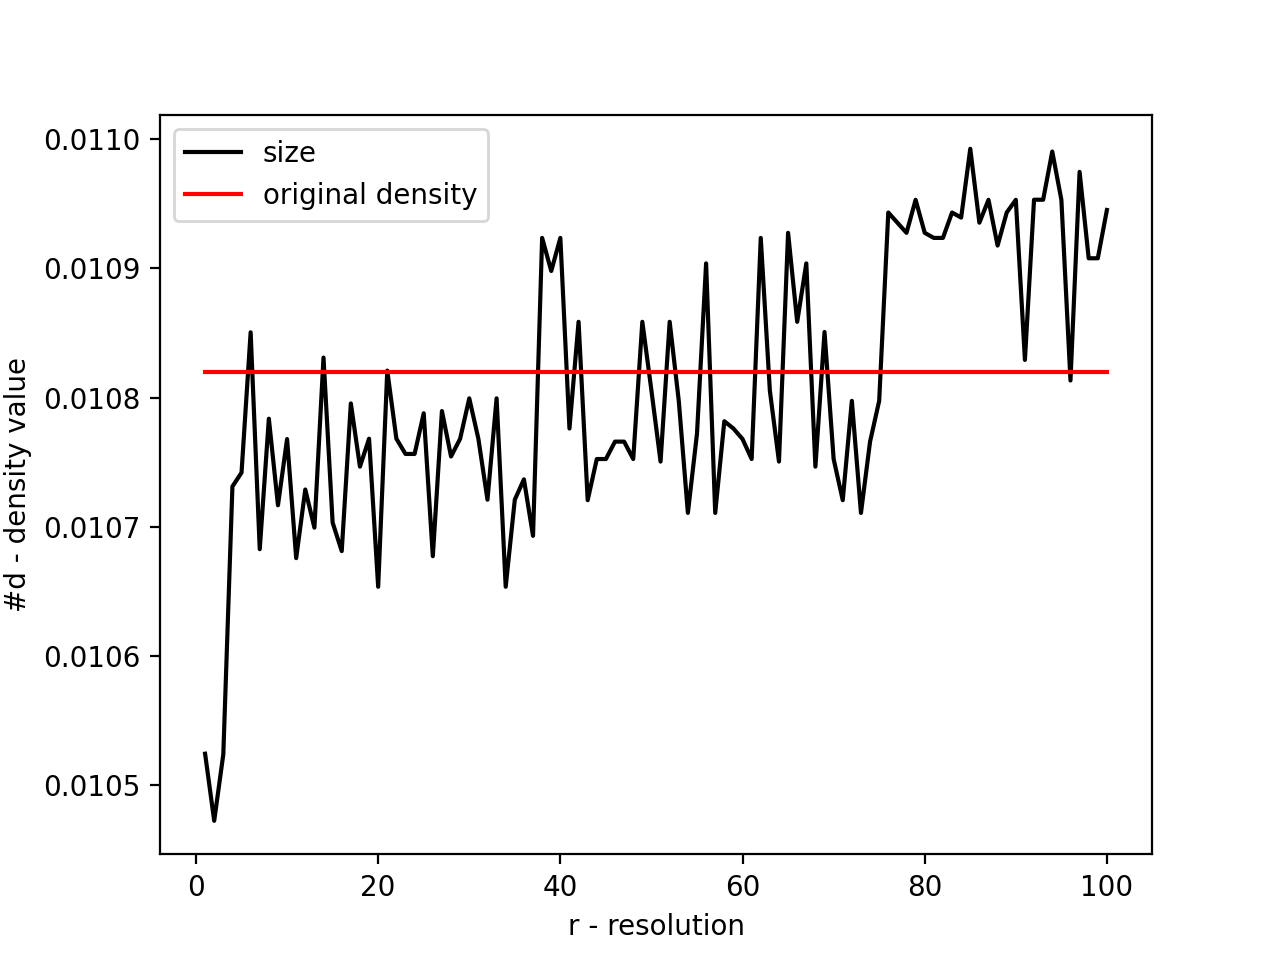
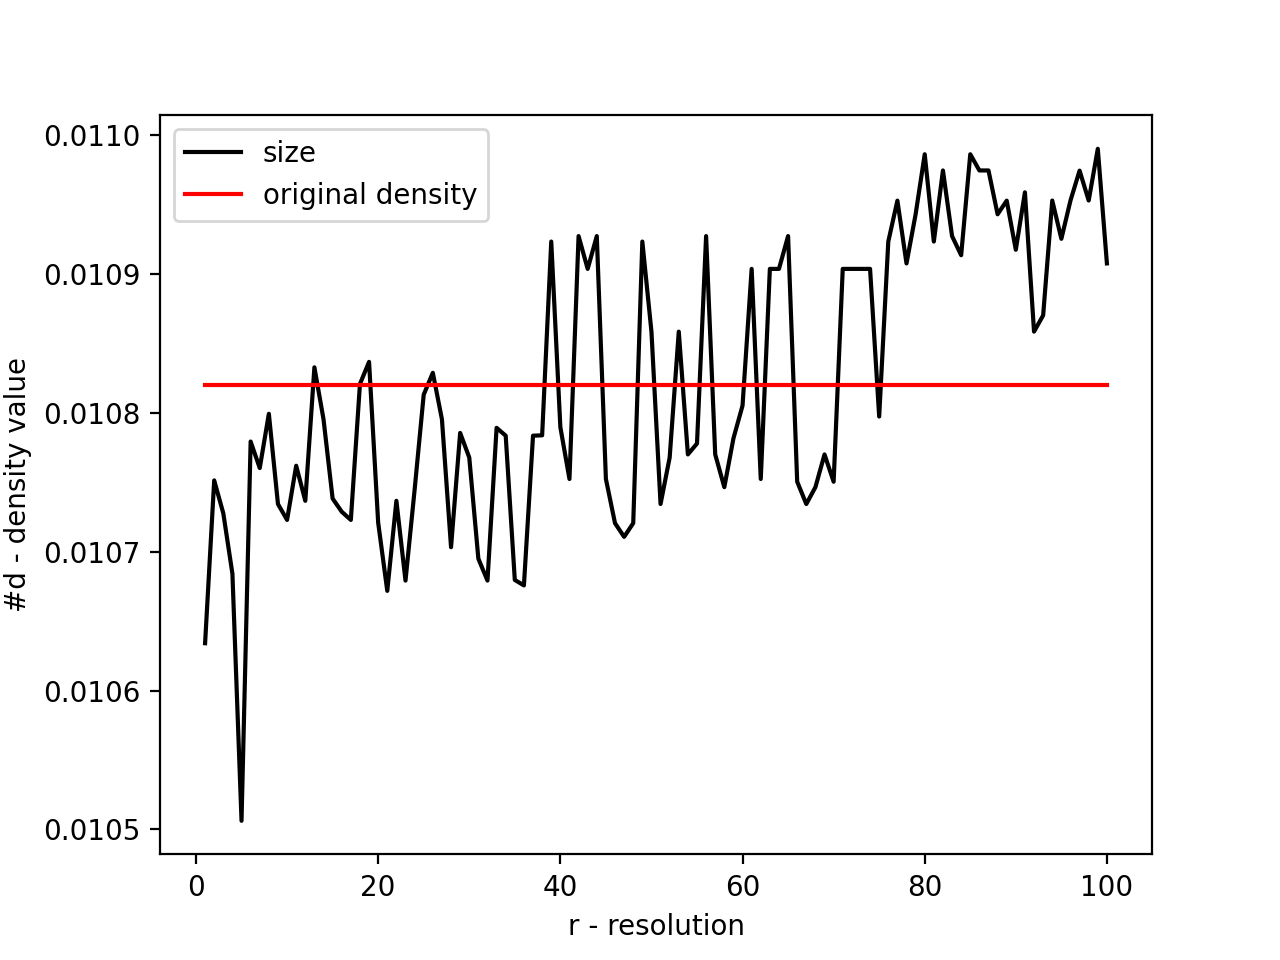
facebook

diff --git a/scale_down_SBM/plot_louvain.py b/scale_down_SBM/plot_louvain.py
@@ -100,7 +100,7 @@ def SBM(GR,check):
         print(den)
         density_list.append(den)
     
-    den = max(density_list)
+    den = min(density_list)
     return den
 
 
